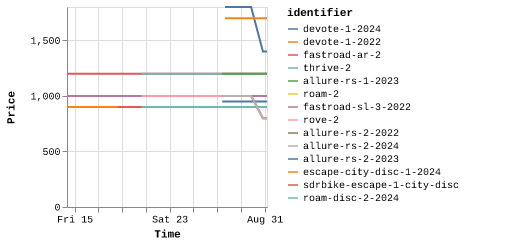
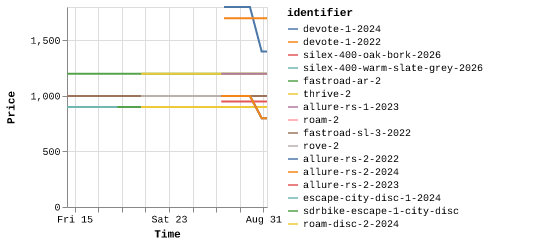
Latest scraping bikes: Sun Aug 31 07:20:48 UTC 2025

Changed region(s): [[0.062, 0.0, 0.8992, 0.9754], [0.0, 0.373, 0.031, 0.5164]]

diff --git a/scrapes/bikes/silex-400-warm-slate-grey-2026.md b/scrapes/bikes/silex-400-warm-slate-grey-2026.md
@@ -1,0 +1,3 @@
+1 599,00 €
+
+[Source](https://fr.merida.be/velo+de+gravel/silex-400-warm-slate-grey/2026)

diff --git a/scrapes/bikes/silex-400-oak-bork-2026.md b/scrapes/bikes/silex-400-oak-bork-2026.md
@@ -1,0 +1,3 @@
+1 599,00 €
+
+[Source](https://fr.merida.be/velo+de+gravel/silex-400-oak-bork/2026)
